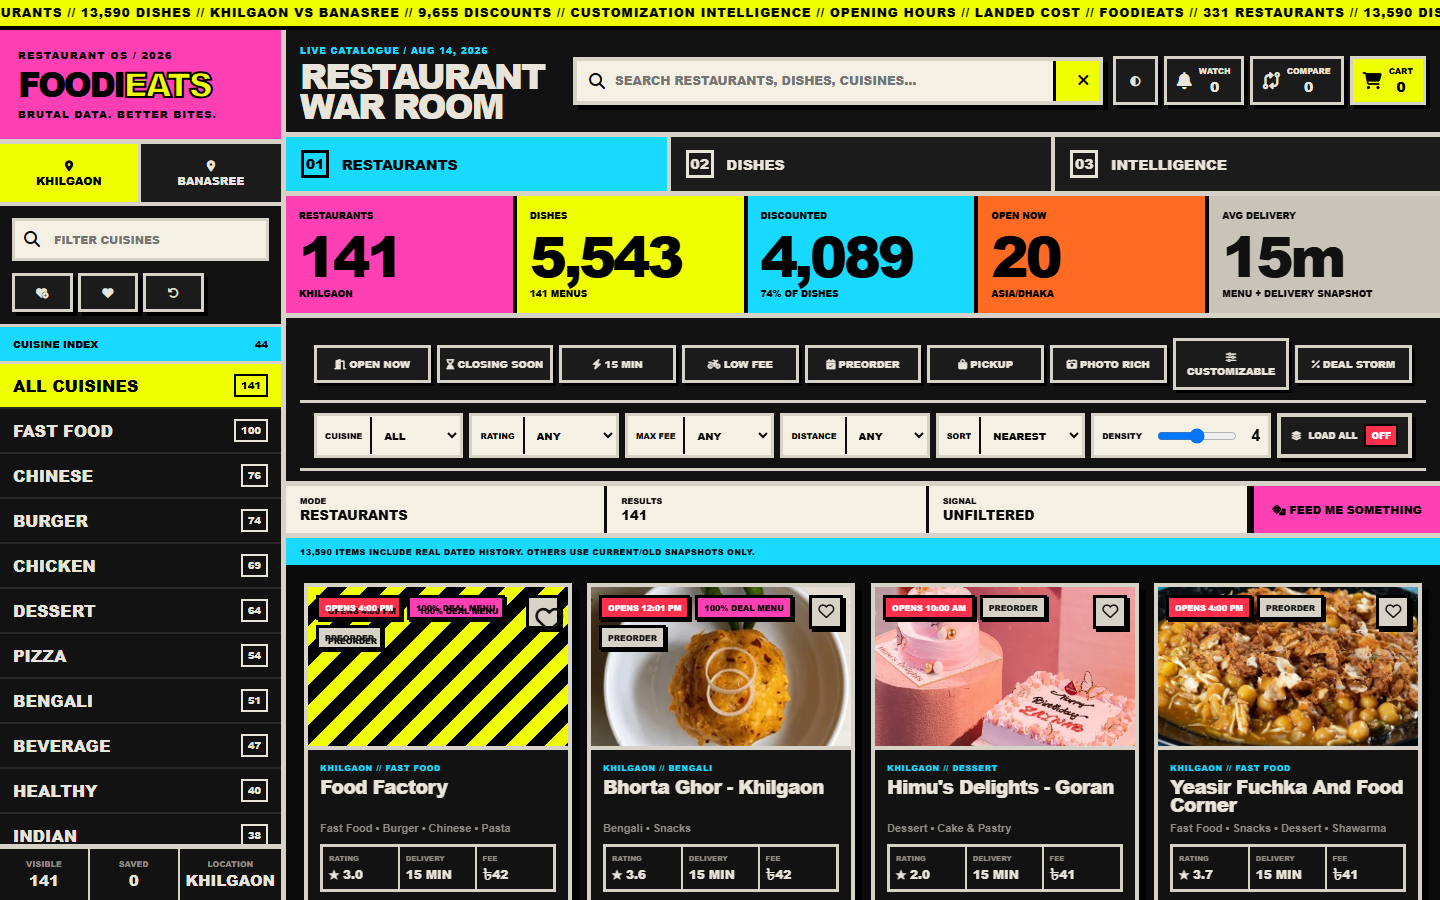
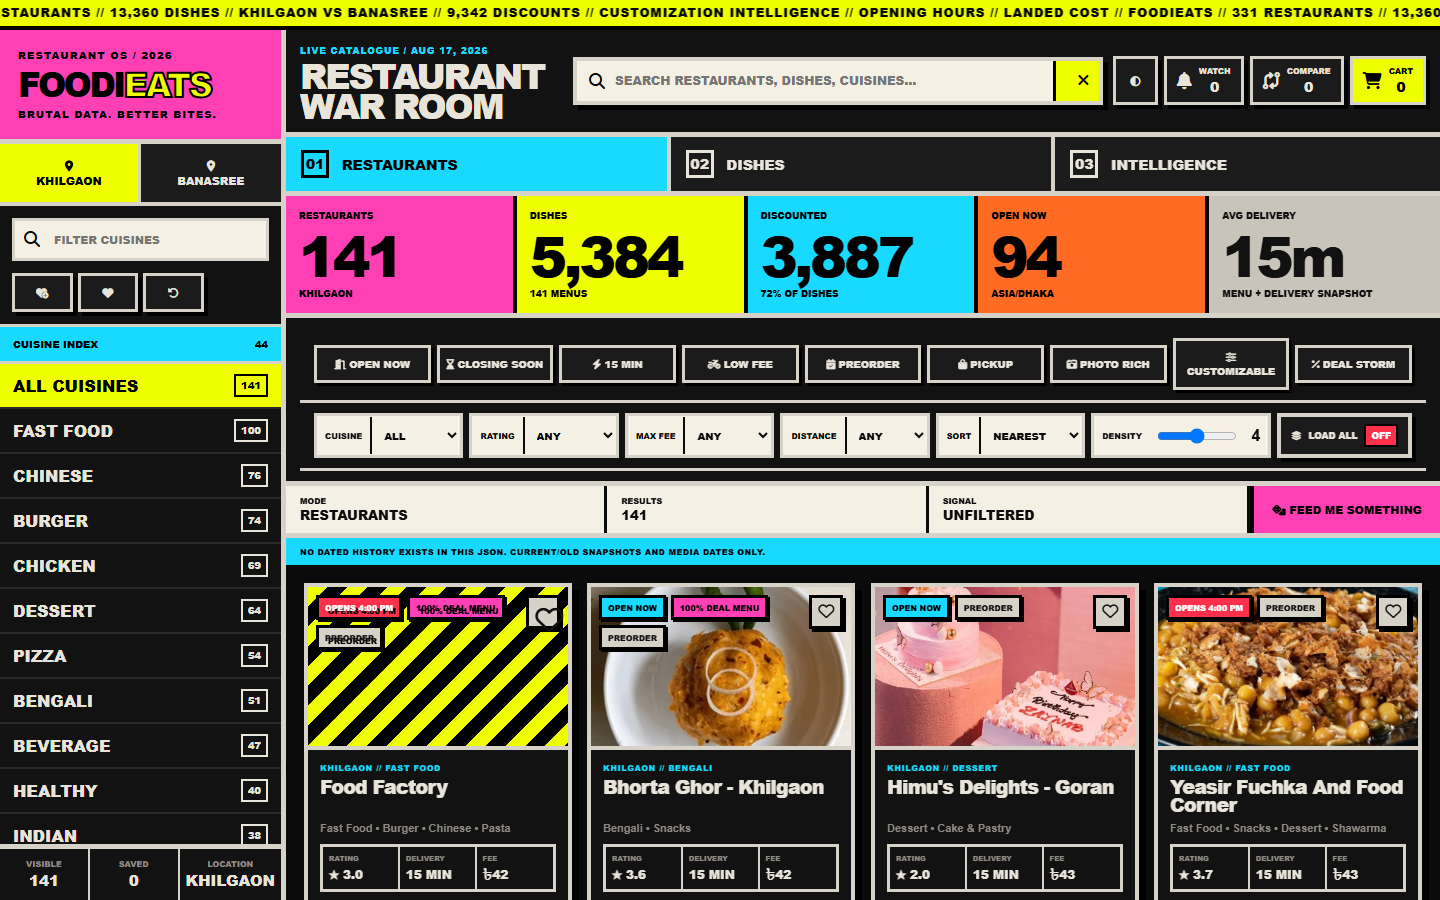
fix: export fresh price history data & add dashboard feature screenshots to README

diff --git a/README.md b/README.md
@@ -1,153 +1,39 @@
-# 🍜 FOODI//EATS — Brutalist Restaurant Intelligence Engine
+# FooDIE Restaurant Analytics — Menu & Price Tracker
 
-> **Enterprise-Grade Food Delivery Telemetry, Multi-Location Geofencing & Brutalist Analytics Dashboard for Foodi Bangladesh.**
-
-[![Live Demo](https://img.shields.io/badge/Live%20Demo-GitHub%20Pages-brightgreen?style=for-the-badge&logo=github)](https://ranehal.github.io/FooDIE-RESTaurant-Analytics/)
-[![Python 3.10+](https://img.shields.io/badge/Python-3.10%2B-3776AB?style=for-the-badge&logo=python&logoColor=white)](https://www.python.org/)
-[![JavaScript ES6+](https://img.shields.io/badge/JavaScript-ES6%2B-F7DF1E?style=for-the-badge&logo=javascript&logoColor=black)](https://developer.mozilla.org/)
-[![Design: Brutalist UI](https://img.shields.io/badge/Design-Brutalist%20CSS3-E34F26?style=for-the-badge&logo=html5&logoColor=white)](https://w3.org)
-[![License: MIT](https://img.shields.io/badge/License-MIT-yellow.svg?style=for-the-badge)](LICENSE)
+Multi-restaurant menu price tracker, item analyzer, and dining analytics dashboard.
 
 ---
 
-## 📌 Executive Summary
+## 🌐 Dashboard & Live Preview
 
-**FOODI//EATS** is an enterprise-grade restaurant intelligence and menu analytics platform built for [Foodi](https://foodibd.com) (`api.foodibd.com`), US-Bangla Group's food delivery service in Bangladesh.
-
-The platform reverse-engineers Foodi's custom cryptographic authentication signatures (`sxsrf`), performs multi-location geofenced restaurant harvesting across major commercial hubs (Gulshan, Banasree, Dhanmondi, Khilgaon), extracts nested menu hierarchies (variations, add-ons, price markdowns), and presents market forensics through a high-contrast **Brutalist UI** dashboard.
+![Dashboard Preview](screenshots/dashboard.png)
 
 ---
 
-## 🚀 Key Features
+## 📈 Price History & Historical Analytics
 
-- **🔐 Reverse-Engineered Cryptographic Signature (`sxsrf`)**: Bypasses Cloudflare edge protection by computing double-Base64 transformations (`Base64(Base64(header_value))`) of Cloudflare `cf-ray-status-id-tn` response headers.
-- **📍 Multi-Location Geofencing**: Simultaneously ingests branch catalogs across distinct coordinate zones in Metro Dhaka.
-- **🍽 Deep Menu Forensics**: Recursively extracts branch profiles, categories, item variations, add-on groups, price markdowns, preparation times, and high-res media.
-- **🎨 High-Contrast Brutalist Analytics Dashboard**: High-density grid matrix featuring restaurant operating status, delivery time benchmarks, cuisine distribution charts, side-by-side restaurant comparators, and dynamic watchlist order builders.
-- **🔍 HAR Network Archive Inspector (`parse_hars.py`)**: Offline dataset extractor capable of compiling raw `.har` network archives into structured JSON datasets.
+![Price History & Charts](screenshots/price_history.png)
 
 ---
 
-## 📸 Screenshots
+## 🔍 Features & Interactive Exploration
 
-![FOODI Eats Restaurant Dashboard](screenshots/dashboard.png)
-
----
-
-## 🏗 System Architecture
-
-```mermaid
-sequenceDiagram
-    autonumber
-    participant CLI as Scraper CLI (scrape_menus.py)
-    participant API as Foodi REST API (api.foodibd.com)
-    participant Data as Data Store (data.json)
-    participant UI as Brutalist Dashboard (restaurant_dashboard/)
-
-    Note over CLI, API: Step 1: Authentication & Signature Bootstrap
-    CLI->>API: GET /restaurants-go/api/v2/all-branch (No sxsrf)
-    API-->>CLI: 401 Unauthorized + Header: cf-ray-status-id-tn
-    CLI->>CLI: Compute sxsrf = Base64(Base64(cf-ray-status-id-tn))
-
-    Note over CLI, API: Step 2: Geofenced Branch & Menu Ingestion
-    CLI->>API: POST /all-branch (Headers: sxsrf, lat/lng coordinates)
-    API-->>CLI: Branch Catalog & Restaurant Metadata JSON
-    CLI->>API: GET /branch-menu/{branch_id}
-    API-->>CLI: Detailed Menu, Variations & Add-on Tree
-
-    Note over CLI, Data: Step 3: Storage & Normalization
-    CLI->>Data: Write normalized data.json & data/ datasets
-
-    Note over Data, UI: Step 4: Brutalist Visual Analytics
-    UI->>Data: Load dataset via Fetch API
-    UI->>UI: Render War Room, Cuisine BI, Side-by-Side Comparator
-```
+![Features & Category View](screenshots/features.png)
 
 ---
 
-## 🔑 Authentication Specification
+## 🛠 Features & Architecture
 
-The Foodi API at `api.foodibd.com` implements custom request validation:
+- **Automated Price Tracking**: Scrapes live catalog prices and logs historical deltas.
+- **Fast Interactive UI**: Clean, responsive frontend with search, filters, and movers panels.
+- **Automated GitHub Pipeline**: Continuous scraping and daily snapshot deployments via GitHub Actions & Kaggle orchestrator.
 
-1. **Header Extraction**: Inspect `cf-ray-status-id-tn` header returned on `401 Unauthorized` responses.
-2. **Signature Derivation**:
-   $$\text{sxsrf} = \text{Base64}\left(\text{Base64}\left(\text{cf-ray-status-id-tn}\right)\right)$$
-3. **Session Rotation**: Ingestion auto-refreshes auth signatures every 25 requests or upon consecutive rate-limit responses.
+## ⚡ Local Run Instructions
 
----
-
-## 📁 Repository Structure
-
-```
-FooDIE_restaurants/
-├── scrape_menus.py       # Production multi-location API scraper & menu extractor
-├── parse_hars.py         # HAR archive network inspector and dataset builder
-├── debug_api.py          # API endpoint diagnostic tool
-├── check_api.py          # Signature validation check utility
-├── run.bat               # Windows launcher script
-├── data.json             # Compiled restaurant catalog & menu dataset
-├── data/                 # Raw branch profile JSON dumps
-└── restaurant_dashboard/ # High-Contrast Brutalist UI Dashboard
-    ├── index.html        # Main dashboard interface
-    ├── app.js            # Dashboard logic, market BI, comparator & watchlist
-    └── styles.css        # Brutalist CSS layout styling
-```
-
----
-
-## 🛠 Usage & Quick Start
-
-### 1. Execute Live Scraper CLI
 ```bash
-# Run multi-location restaurant and menu scraper
-python scrape_menus.py
-```
+# Run the scraper entry point
+python scraper.py
 
-### 2. Parse HAR Archives (Offline Extraction)
-```bash
-# Parse raw .har network dumps into structured JSON datasets
-python parse_hars.py
-```
-
-### 3. Launch Brutalist Dashboard
-```bash
-# Serve local web server
+# Serve dashboard locally
 python -m http.server 8000
 ```
-Open `http://localhost:8000/restaurant_dashboard` in your browser.
-
----
-
-## 📜 License
-
-Distributed under the MIT License. Trademarks and data belong to FoodiBD / US-Bangla Group. Built for educational and analytics research.
-
----
-
-## 🚀 Future Work & Industrial Roadmap
-
-To elevate this platform to an enterprise-grade, production-ready product meeting current industrial standards, the following strategic goals and architecture enhancements are planned:
-
-### 1. 🏗 High-Availability Microservices & Infrastructure
-- **Containerization & Orchestration**: Package ingestion workers, APIs, and dashboards into Docker containers with deployment via **Kubernetes (K8s)** and Helm charts for autoscaling during peak traffic hours.
-- **Distributed Ingestion Workers**: Transition from localized scraping scripts to an asynchronous, fault-tolerant worker pool utilizing **Celery + Redis** or **Temporal.io** with automated proxy rotation, rate-limiting retry strategies, and CAPTCHA bypass capabilities.
-- **High-Performance API Gateway**: Implement an enterprise API Gateway (Kong / Envoy) providing OAuth2 / JWT authentication, TLS termination, and granular rate limiting (Token Bucket algorithm).
-
-### 2. 📊 Enterprise Data Engineering & Streaming Pipelines
-- **Data Lakehouse Architecture**: Store multi-year raw price histories using **Apache Parquet / Delta Lake** or **Google BigQuery** for scalable analytical queries across millions of SKU updates.
-- **Real-Time CDC & Message Streaming**: Integrate **Apache Kafka** or **NATS** for Change Data Capture (CDC) to stream price change events instantly to downstream analytics and notification consumers.
-- **Automated Workflow Orchestration**: Schedule and monitor data ingestion, ETL pipelines, and unit normalization using **Apache Airflow** or **Prefect** integrated with **dbt** for dynamic data transformations.
-
-### 3. 🧠 Machine Learning & Advanced Market Intelligence
-- **Predictive Price Forecasting**: Deploy **Prophet** and **LSTM Neural Networks** to predict future price drops, historical promotion trends, and seasonal discount cycles.
-- **Anomaly & Surge Detection**: Build ML models to identify artificial price hikes before promotional sales, mislabeled unit metrics, and phantom stock availability.
-- **Semantic Product Entity Matching**: Utilize vector embeddings (OpenAI / Sentence-Transformers) paired with **pgvector** / **Pinecone** to match identical SKUs across competitor platforms despite variations in naming formats.
-
-### 4. 🔐 Security, Compliance & System Observability
-- **Zero-Trust Security & RBAC**: Enforce Role-Based Access Control (RBAC), AES-256 GCM payload encryption at rest, and secret rotation via HashiCorp Vault.
-- **Full Observability Stack**: Instrument services with **OpenTelemetry**, emitting distributed traces, Prometheus metrics, and structured logs to **Grafana Loki & Tempo** dashboards.
-- **SLA Alerting & Webhook Engine**: Provide instant trigger notifications via **Telegram Bot API**, **Discord Webhooks**, email notifications, and enterprise SMS gateways when watched items reach target prices.
-
-### 5. 📱 Next-Gen User Experience & Mobile Platforms
-- **Cross-Platform Mobile App**: Develop a dedicated **React Native / Flutter** app featuring push notifications for price drops, barcode scanning in physical stores, and personalized deal watchlists.
-- **Progressive Web App (PWA)**: Upgrade the dashboard to a full PWA with offline caching via Service Workers, dynamic theme switching, and desktop application installability.
